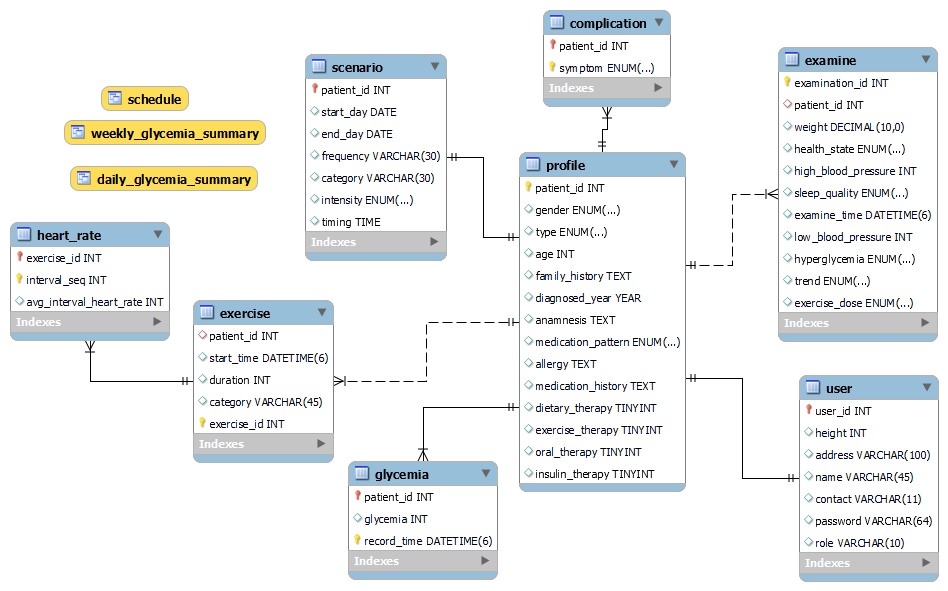
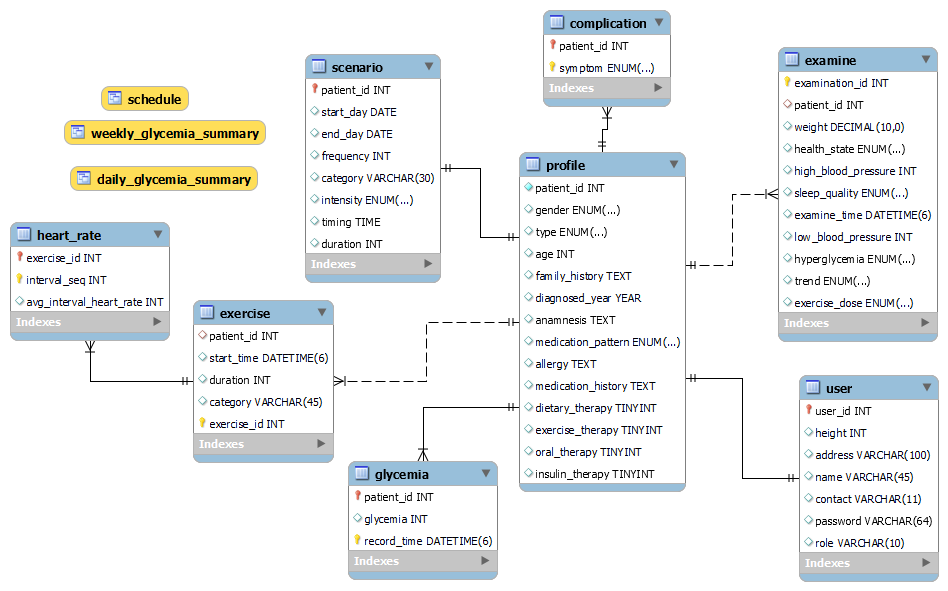
add duration to table scenario

diff --git a/README.md b/README.md
@@ -13,9 +13,9 @@
   - 由于病人可能会有多个并发症，因此需要单独设计一个complication表。
   - 病人每次锻炼，都会在exercise记录开始时间，持续时间，运动种类等等，每次锻炼由exercise_id唯一标识，每次锻炼都会对应一系列每3分钟记录一次的心率，对应于表heartrate。
   - 每隔15分钟记录一次血糖，数据在表glycemia中。
-  - 病人可以自己设置运动方案，记录在表scenario中，运动方案包括开始与截止日期，频率，种类，强度，一天中的运动时间，由于主键是病人的ID，因此病人最多只能拥有1个运动方案，只能通过选择系统推荐方案或者自己去修改方案。
+  - 病人可以自己设置运动方案，记录在表scenario中，运动方案包括开始与截止日期，频率，种类，强度，一天中的运动时间，每次运动的持续时间，其中频率用两次运动的间隔表示。由于主键是病人的ID，因此病人最多只能拥有1个运动方案，只能通过选择系统推荐方案或者自己去修改方案。
   - 病人可以定期检查，体检结果记录在表examine中，包含检测时间，血糖，血压，健康状况，睡眠质量。
-### 2个视图：
+### 3个视图：
   - daily_glycemia_summary 记录每日的最高与最低血糖。
   - weekly_glycemia_summary 记录每周的最高与最低血糖。
   - schedule 生成scenario方案对应的日程表。这里使用了MySQL的递归公共表达式CTE，用于生成数字序列，可以自己制定n的最大值为100，n个间隔加起始时间不得大于结束时间，这样n就有了2个限制条件。
